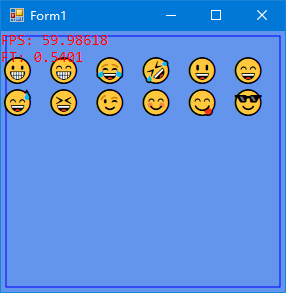
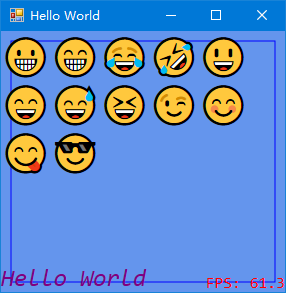
simplify test project, update FlysEngine, add RenderTimer

Changed region(s): [[0.0, 0.0307, 1.0, 0.9829]]

diff --git a/FlysTest/Program.cs b/FlysTest/Program.cs
@@ -1,25 +1,82 @@
-using SharpDX.Windows;
+using FlysEngine;
+using FlysEngine.Managers;
+using SharpDX;
+using SharpDX.Direct2D1;
+using SharpDX.Windows;
 using System;
-using System.Collections.Generic;
-using System.Linq;
-using System.Threading.Tasks;
 using System.Windows.Forms;
+
+using DWrite = SharpDX.DirectWrite;
 
 namespace FlysTest
 {
     static class Program
     {
         /// <summary>
-        /// 应用程序的主入口点。
+        /// Entry point.
         /// </summary>
         [STAThread]
         static void Main()
         {
-            Application.EnableVisualStyles();
-            Application.SetCompatibleTextRenderingDefault(false);
-            using (var form = new Form1())
+            using (var res = new XResource())
+            using (var form = new Form() { Text = "Hello World" })
             {
-                RenderLoop.Run(form, () => form.Render());
+                var timer = new RenderTimer();
+                var bottomRightFont = new DWrite.TextFormat(res.DWriteFactory, "Consolas", 16.0f)
+                {
+                    FlowDirection = DWrite.FlowDirection.BottomToTop, 
+                    TextAlignment = DWrite.TextAlignment.Trailing, 
+                };
+                var bottomLeftFont = new DWrite.TextFormat(res.DWriteFactory, "Consolas", 
+                    DWrite.FontWeight.Normal, DWrite.FontStyle.Italic, 24.0f)
+                {
+                    FlowDirection = DWrite.FlowDirection.BottomToTop, 
+                    TextAlignment = DWrite.TextAlignment.Leading, 
+                };
+
+                form.Resize += (o, e) =>
+                {
+                    if (form.WindowState != FormWindowState.Minimized && res.DeviceAvailable)
+                    {
+                        res.Resize();
+                    }
+                };
+
+                RenderLoop.Run(form, () => Render());
+
+                void Render()
+                {
+                    if (!res.DeviceAvailable) res.InitializeDevice(form.Handle);
+
+                    var target = res.RenderTarget;
+
+                    timer.BeginFrame();
+                    target.BeginDraw();
+                    Draw(target);
+                    target.EndDraw();
+                    res.SwapChain.Present(1, 0);
+                    timer.EndFrame();
+                }
+
+                void Draw(DeviceContext target)
+                {
+                    target.Clear(Color.CornflowerBlue.ToColor4());
+                    RectangleF rectangle = new RectangleF(0, 0, target.Size.Width, target.Size.Height);
+
+                    target.DrawRectangle(
+                        new RectangleF(10, 10, target.Size.Width - 20, target.Size.Height - 20), 
+                        res.GetColor(Color.Blue));
+
+                    target.DrawText("😀😁😂🤣😃😄😅😆😉😊😋😎", 
+                        res.TextFormats[36],  rectangle, res.GetColor(Color.Blue), 
+                        DrawTextOptions.EnableColorFont);
+
+                    target.DrawText("FPS: " + timer.FramesPerSecond.ToString("F1"), 
+                        bottomRightFont, rectangle, res.GetColor(Color.Red));
+
+                    target.DrawText("Hello World",
+                        bottomLeftFont, rectangle, res.GetColor(Color.Purple));
+                }
             }
         }
     }

diff --git a/FlysEngine/Managers/RenderTimer.cs b/FlysEngine/Managers/RenderTimer.cs
@@ -1,0 +1,49 @@
+using System;
+using System.Collections.Generic;
+using System.Diagnostics;
+using System.Text;
+
+namespace FlysEngine.Managers
+{
+    public class RenderTimer
+    {
+        private long _lastFpsTick = Stopwatch.GetTimestamp();
+        private long _lastTick = Stopwatch.GetTimestamp();
+        private Stopwatch _frameStopwatch = new Stopwatch();
+        private Stopwatch _totalStopwatch = Stopwatch.StartNew();
+
+        private long _frames;
+
+        public TimeSpan DurationSinceLastFrame { get; private set; }
+
+        public TimeSpan DurationSinceStart => _totalStopwatch.Elapsed;
+
+        public long TotalFrames { get; private set; } = 0;
+
+        public float FramesPerSecond { get; private set; }
+
+        public float BeginFrame()
+        {
+            _frameStopwatch.Restart();
+            var currentTs = Stopwatch.GetTimestamp();
+            var duration = currentTs - _lastFpsTick;
+            if (duration > Stopwatch.Frequency)
+            {
+                FramesPerSecond = 1.0f * _frames / duration * Stopwatch.Frequency;
+                _lastFpsTick = currentTs;
+                _frames = 0;
+            }
+            var lastFrameTimeInSecond = 1.0f * (currentTs - _lastTick) / Stopwatch.Frequency;
+            _lastTick = currentTs;
+            return lastFrameTimeInSecond;
+        }
+
+        public void EndFrame()
+        {
+            _frameStopwatch.Stop();
+            DurationSinceLastFrame = _frameStopwatch.Elapsed;
+            ++_frames;
+            ++TotalFrames;
+        }
+    }
+}

diff --git a/FlysEngine/XResource.cs b/FlysEngine/XResource.cs
@@ -78,9 +78,15 @@ namespace FlysEngine
         }
 
         double _timeNow = 0.0;
-        public void UpdateLogic(float dt)
+        public void UpdateLogicByTimeNow(TimeSpan timeNow)
         {
-            _timeNow += dt;
+            _timeNow = timeNow.TotalSeconds;
+            AnimationManager.Update(_timeNow);
+        }
+        
+        public void UpdateLogic(float timeSinceLastUpdateInSecond)
+        {
+            _timeNow += timeSinceLastUpdateInSecond;
             AnimationManager.Update(_timeNow);
         }
 

diff --git a/README.md b/README.md
@@ -6,76 +6,84 @@ Real-time 2D rendering utilities based on SharpDX/Direct2D.
 * Final result:
   ![Final Result](FlysTest/FlysTest.png)
 * Create a Windows-form application
+* Delete the entire Form1 class
 * Install the `FlysEngine` nuget package
 * Install the `SharpDX.Desktop` nuget package for convenient
-* In `Program.cs` file, change the `Application.Run` with: 
+* In `Program.cs` file, using following namespaces:
   ```
-  using (var form = new Form1())
+  using FlysEngine;
+  using FlysEngine.Managers;
+  using SharpDX;
+  using SharpDX.Direct2D1;
+  using SharpDX.Windows;
+  using System;
+  using System.Windows.Forms;
+  
+  using DWrite = SharpDX.DirectWrite;
+  ```
+* Replace Main method's content to following code:
+  ```
+  using (var res = new XResource())
+  using (var form = new Form() { Text = "Hello World" })
   {
-      RenderLoop.Run(form, () => form.Render());
+      var timer = new RenderTimer();
+      var bottomRightFont = new DWrite.TextFormat(res.DWriteFactory, "Consolas", 16.0f)
+      {
+          FlowDirection = DWrite.FlowDirection.BottomToTop, 
+          TextAlignment = DWrite.TextAlignment.Trailing, 
+      };
+      var bottomLeftFont = new DWrite.TextFormat(res.DWriteFactory, "Consolas", 
+          DWrite.FontWeight.Normal, DWrite.FontStyle.Italic, 24.0f)
+      {
+          FlowDirection = DWrite.FlowDirection.BottomToTop, 
+          TextAlignment = DWrite.TextAlignment.Leading, 
+      };
+  
+      form.Resize += (o, e) =>
+      {
+          if (form.WindowState != FormWindowState.Minimized && res.DeviceAvailable)
+          {
+              res.Resize();
+          }
+      };
+  
+      RenderLoop.Run(form, () => Render());
+  
+      void Render()
+      {
+          if (!res.DeviceAvailable) res.InitializeDevice(form.Handle);
+  
+          var target = res.RenderTarget;
+  
+          timer.BeginFrame();
+          target.BeginDraw();
+          Draw(target);
+          target.EndDraw();
+          res.SwapChain.Present(1, 0);
+          timer.EndFrame();
+      }
+  
+      void Draw(DeviceContext target)
+      {
+          target.Clear(Color.CornflowerBlue.ToColor4());
+          RectangleF rectangle = new RectangleF(0, 0, target.Size.Width, target.Size.Height);
+
+		  target.DrawRectangle(
+              new RectangleF(10, 10, target.Size.Width - 20, target.Size.Height - 20), 
+              res.GetColor(Color.Blue));
+  
+          target.DrawText("😀😁😂🤣😃😄😅😆😉😊😋😎", 
+              res.TextFormats[36],  rectangle, res.GetColor(Color.Blue), 
+              DrawTextOptions.EnableColorFont);
+  
+          target.DrawText("FPS: " + timer.FramesPerSecond.ToString("F1"), 
+              bottomRightFont, rectangle, res.GetColor(Color.Red));
+  
+          target.DrawText("Hello World",
+              bottomLeftFont, rectangle, res.GetColor(Color.Purple));
+      }
   }
   ```
-* In Form1.cs, paste the following code:
-```
-public partial class Form1 : Form
-{
-    private readonly XResource xResource = new XResource();
-    private readonly FpsManager fpsManager = new FpsManager();
-
-    public Form1()
-    {
-        InitializeComponent();
-    }
-
-    protected override void OnResize(EventArgs e)
-    {
-        base.OnResize(e);
-
-        if (WindowState != FormWindowState.Minimized && xResource.DeviceAvailable)
-        {
-            xResource.Resize();
-        }
-    }
-
-    public void Render()
-    {
-        if (!xResource.DeviceAvailable)
-        {
-            xResource.InitializeDevice(Handle);
-        }
-
-        var dt = fpsManager.BeginFrame();
-        {
-            xResource.UpdateLogic(dt);
-            xResource.RenderTarget.BeginDraw();
-            {
-                Draw(xResource.RenderTarget);
-            }
-            xResource.RenderTarget.EndDraw();
-            fpsManager.EndFrame();
-            xResource.SwapChain.Present(1, 0);
-        }
-    }
-
-    private void Draw(DeviceContext renderTarget)
-    {
-        renderTarget.Clear(Color.CornflowerBlue.ToColor4());
-        renderTarget.DrawRectangle(new RectangleF(5, 5, ClientSize.Width - 10, ClientSize.Height - 10),
-            xResource.GetColor(Color.Blue));
-
-        renderTarget.DrawText($"😀 😁 😂 🤣 😃 😄 😅 😆 😉 😊 😋 😎",
-            xResource.TextFormats[24.0f],
-            new RectangleF(0, 22, renderTarget.Size.Width, float.MaxValue),
-            xResource.GetColor(Color.White), 
-            DrawTextOptions.EnableColorFont);
-
-        renderTarget.DrawText($"FPS: {fpsManager.Fps}\r\nFT: {fpsManager.FrameTimeMs}",
-            xResource.TextFormats[15.0f],
-            new RectangleF(0, 0, float.MaxValue, float.MaxValue),
-            xResource.GetColor(Color.Red));
-    }
-}
-```
 * And you're done.
 
 # License
